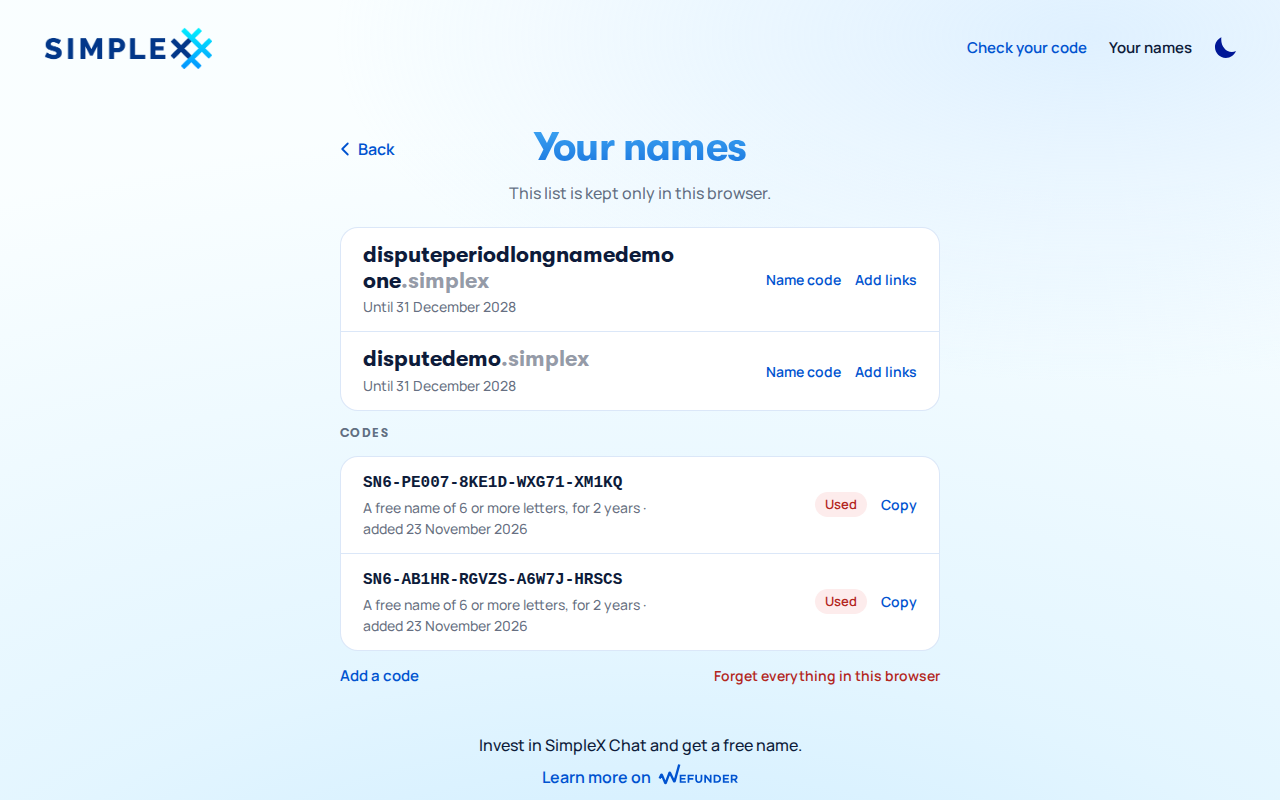
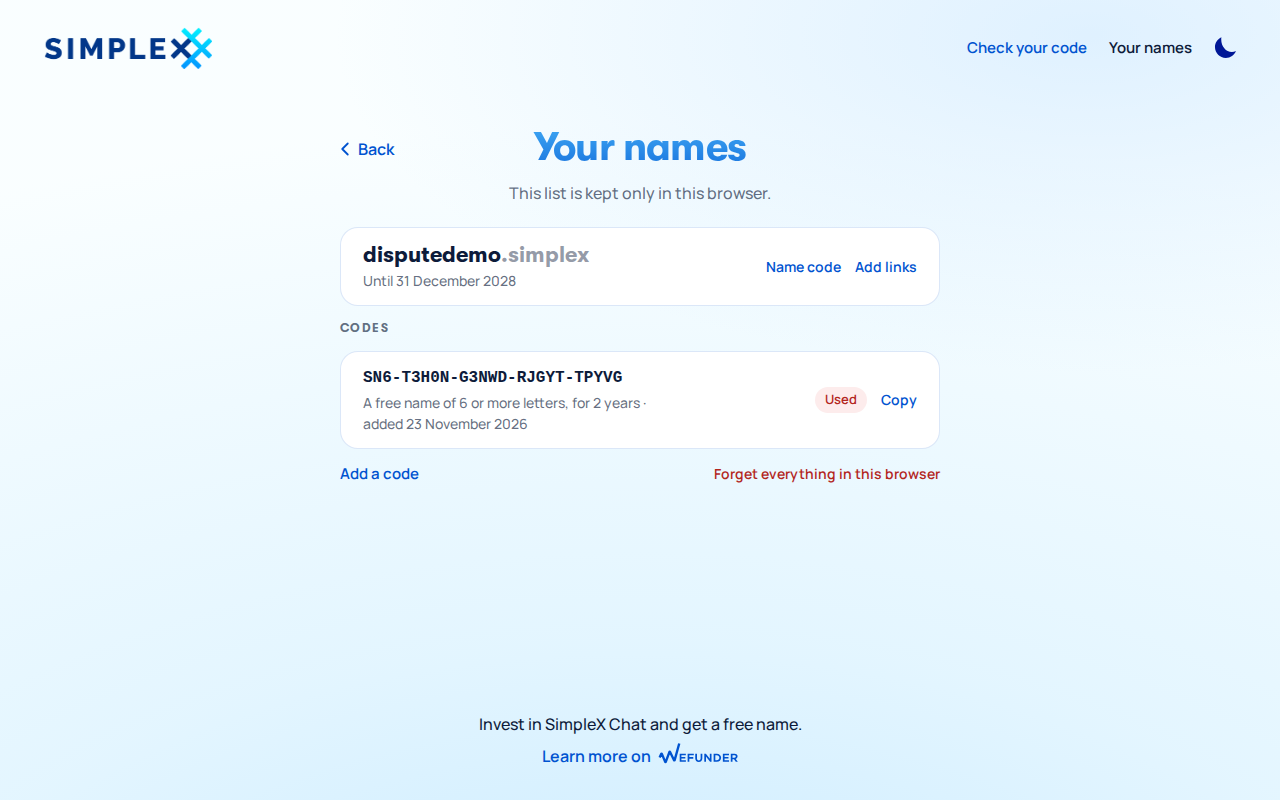
webapp: dispute days screenshots of the page without the Dispute period

diff --git a/index.md b/index.md
@@ -3,26 +3,18 @@
 A local anvil chain with ens-contracts ebf7698 (simplex-mainnet-v2), deployed by the web store's dev/deploy.ts; the store service executable on SQLite, serving the web store's production build; headless Chromium at 1280×800 and 390×844.
 
 - simplex-chat#8317, `ep/names-dispute-days`: b1afe521c9cfc1e5e885d97164668509799a7744; the service was built at 1605c00b7f2df89df460c1677e7254b0534062e2, and b1afe52 changes only scripts/store-service/dev/contract-run.sh
-- simplex.domains, its `apps/simplex-domains` pin (`ep/webapp-dispute-days`, simplex.domains#27): 081069ecee608a793b966468fef7a6979070278f
+- simplex.domains: #23, `ab/webapp-dispute-days` of brenzi-agent/simplex.domains: ab867bfc07657dbc1fd23c20e894e56ba7e63db4, built as the names site in place of #8317's pin (081069e)
 - ens-contracts: ebf76989ec5cab1c7dd49085b4c18faf303657d0, in simplex-namespace-contract e3ba0a50d9475dab8336b5a4026ab0fc5f79ebd4
 
-The two registered orders were paid with prepaid codes issued by `--execute "//issue name 6"`; the card review placed no order. Between 04 and 05 the controller's owner (anvil account 0, the deployment's `owner`) called `SimplexController.unregister("disputedemo", 1796636149)` (transaction 0x4fc388f3f29e6b57b45a67cf6825796004da668653da02b0a3a840d25a29fc56, status 1): the registrar's `disputeUntil` and `nameExpires` read 0 after it, and `ownerOf` reverts. Between 05 and 06 the service was restarted, and its ended sweep at start logged `names ended sweep: registration YFQi4UVGrMip6isiZrxn-Q set ended: disputeUntil(id) read at block 175 is 0, not 1796636149`.
+The page shows no Dispute period row and no dispute end; the service's view still holds `disputeDays` and the registered phase's `disputeUntil`. The order was paid with a prepaid code issued by `--execute "//issue name 6"`; the card review placed no order. Between 04 and 06 the controller's owner (anvil account 0, the deployment's `owner`) called `SimplexController.unregister("disputedemo", 1796641338)` (transaction 0x73ee790c593ac0c1535bda1cf00374fb0da9423ae5b6efe9e2e3d237d217b242, status 1): the registrar's `disputeUntil` and `nameExpires` read 0 after it, and `ownerOf` reverts. Then the service was restarted, and its ended sweep at start logged `names ended sweep: registration cVpdZoSzu4u4X-1yZdfQlA set ended: disputeUntil(id) read at block 125 is 0, not 1796641338`.
 
 | State | Desktop | Phone | Service view |
 |---|---|---|---|
 | Check your order, disputedemo.simplex with a prepaid code | [01-code-review-desktop.png](01-code-review-desktop.png) | [01-code-review-phone.png](01-code-review-phone.png) | no registration yet |
-| Check your order, disputedemo.simplex with a prepaid code, the Dispute period hint shown | [01-code-review-hint-desktop.png](01-code-review-hint-desktop.png) | [01-code-review-hint-phone.png](01-code-review-hint-phone.png) | no registration yet |
-| The registering page of disputedemo.simplex, waiting after its commit | [01-code-registering-desktop.png](01-code-registering-desktop.png) | [01-code-registering-phone.png](01-code-registering-phone.png) | `phase {"revealAfter":1795426549,"revealBefore":1795512919,"signature":{"type":"signed"},"type":"committed"}`, `disputeDays 14`, `payment {"type":"code"}` |
-| The registered order page of disputedemo.simplex | [01-code-registered-desktop.png](01-code-registered-desktop.png) | [01-code-registered-phone.png](01-code-registered-phone.png) | `phase {"disputeUntil":1796636149,"expiresAt":1861833632,"type":"registered"}`, `disputeUntil 1796636149 (2026-12-07T09:35:49Z)`, `disputeDays 14`, `payment {"type":"code"}` |
+| The registering page of disputedemo.simplex, waiting after its commit | [01-code-registering-desktop.png](01-code-registering-desktop.png) | [01-code-registering-phone.png](01-code-registering-phone.png) | `phase {"revealAfter":1795431738,"revealBefore":1795518108,"signature":{"type":"signed"},"type":"committed"}`, `disputeDays 14`, `payment {"type":"code"}` |
+| The registered order page of disputedemo.simplex | [01-code-registered-desktop.png](01-code-registered-desktop.png) | [01-code-registered-phone.png](01-code-registered-phone.png) | `phase {"disputeUntil":1796641338,"expiresAt":1861833632,"type":"registered"}`, `disputeUntil 1796641338 (2026-12-07T11:02:18Z)`, `disputeDays 14`, `payment {"type":"code"}` |
 | Check your order, cardreview.simplex, Card chosen, not paid | [02-card-review-desktop.png](02-card-review-desktop.png) | [02-card-review-phone.png](02-card-review-phone.png) | no registration yet |
-| Check your order, cardreview.simplex, Card chosen, the Dispute period hint shown | [02-card-review-hint-desktop.png](02-card-review-hint-desktop.png) | [02-card-review-hint-phone.png](02-card-review-hint-phone.png) | no registration yet |
-| Check your order, disputeperiodlongnamedemoone.simplex with a prepaid code | [03-long-review-desktop.png](03-long-review-desktop.png) | [03-long-review-phone.png](03-long-review-phone.png) | no registration yet |
-| Check your order, disputeperiodlongnamedemoone.simplex with a prepaid code, the Dispute period hint shown | [03-long-review-hint-desktop.png](03-long-review-hint-desktop.png) | [03-long-review-hint-phone.png](03-long-review-hint-phone.png) | no registration yet |
-| The registering page of disputeperiodlongnamedemoone.simplex, waiting after its commit | [03-long-registering-desktop.png](03-long-registering-desktop.png) | [03-long-registering-phone.png](03-long-registering-phone.png) | `phase {"revealAfter":1795426584,"revealBefore":1795512954,"signature":{"type":"signed"},"type":"committed"}`, `disputeDays 14`, `payment {"type":"code"}` |
-| The registered order page of disputeperiodlongnamedemoone.simplex | [03-long-registered-desktop.png](03-long-registered-desktop.png) | [03-long-registered-phone.png](03-long-registered-phone.png) | `phase {"disputeUntil":1796636184,"expiresAt":1861833630,"type":"registered"}`, `disputeUntil 1796636184 (2026-12-07T09:36:24Z)`, `disputeDays 14`, `payment {"type":"code"}` |
-| Your names, both orders registered: a registered row shows Until and its date, with no chip | [04-names-registered-desktop.png](04-names-registered-desktop.png) | [04-names-registered-phone.png](04-names-registered-phone.png) | `phase {"disputeUntil":1796636149,"expiresAt":1861833632,"type":"registered"}`, `disputeUntil 1796636149 (2026-12-07T09:35:49Z)`, `disputeDays 14`, `payment {"type":"code"}` |
-| Your names after the chain unregistered disputedemo.simplex, before the service's check | [05-names-unregistered-before-check-desktop.png](05-names-unregistered-before-check-desktop.png) | [05-names-unregistered-before-check-phone.png](05-names-unregistered-before-check-phone.png) | `phase {"disputeUntil":1796636149,"expiresAt":1861833632,"type":"registered"}`, `disputeUntil 1796636149 (2026-12-07T09:35:49Z)`, `disputeDays 14`, `payment {"type":"code"}` |
-| Edit links of disputedemo.simplex after the chain unregistered it, before the service's check | [05-edit-unregistered-before-check-desktop.png](05-edit-unregistered-before-check-desktop.png) | [05-edit-unregistered-before-check-phone.png](05-edit-unregistered-before-check-phone.png) | `phase {"disputeUntil":1796636149,"expiresAt":1861833632,"type":"registered"}`, `disputeUntil 1796636149 (2026-12-07T09:35:49Z)`, `disputeDays 14`, `payment {"type":"code"}` |
+| Your names, disputedemo.simplex registered: a registered row shows Until and its date, with no chip | [04-names-registered-desktop.png](04-names-registered-desktop.png) | [04-names-registered-phone.png](04-names-registered-phone.png) | `phase {"disputeUntil":1796641338,"expiresAt":1861833632,"type":"registered"}`, `disputeUntil 1796641338 (2026-12-07T11:02:18Z)`, `disputeDays 14`, `payment {"type":"code"}` |
 | The order page of disputedemo.simplex after the service's sweep at start set it ended | [06-order-ended-desktop.png](06-order-ended-desktop.png) | [06-order-ended-phone.png](06-order-ended-phone.png) | `phase {"type":"ended"}`, `disputeDays 14`, `payment {"type":"code"}` |
-| Your names, disputedemo.simplex marked Ended, the long name still registered | [07-names-ended-desktop.png](07-names-ended-desktop.png) | [07-names-ended-phone.png](07-names-ended-phone.png) | `phase {"type":"ended"}`, `disputeDays 14`, `payment {"type":"code"}` |
+| Your names, disputedemo.simplex marked Ended | [07-names-ended-desktop.png](07-names-ended-desktop.png) | [07-names-ended-phone.png](07-names-ended-phone.png) | `phase {"type":"ended"}`, `disputeDays 14`, `payment {"type":"code"}` |
 | Edit links of disputedemo.simplex once ended | [08-edit-ended-desktop.png](08-edit-ended-desktop.png) | [08-edit-ended-phone.png](08-edit-ended-phone.png) | `phase {"type":"ended"}`, `disputeDays 14`, `payment {"type":"code"}` |
